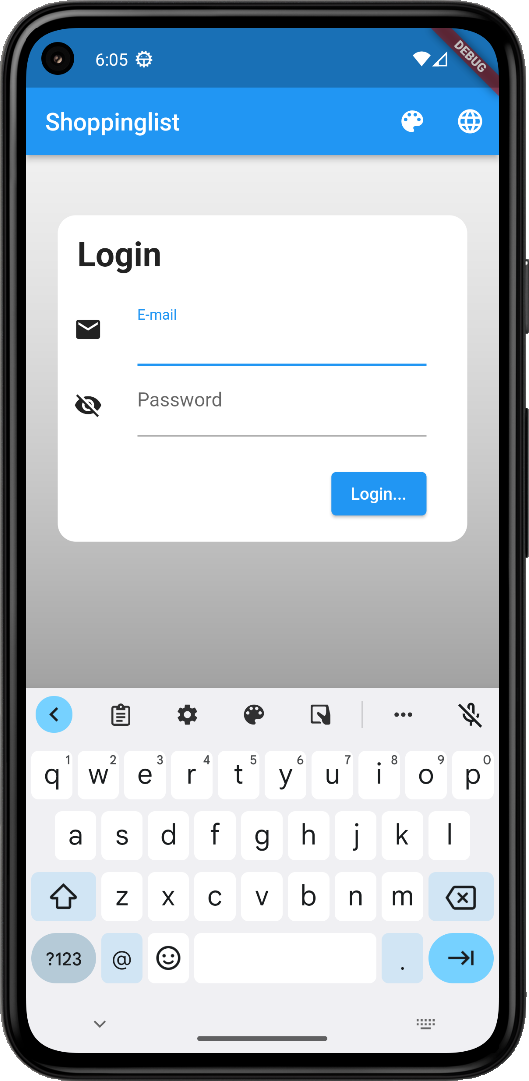
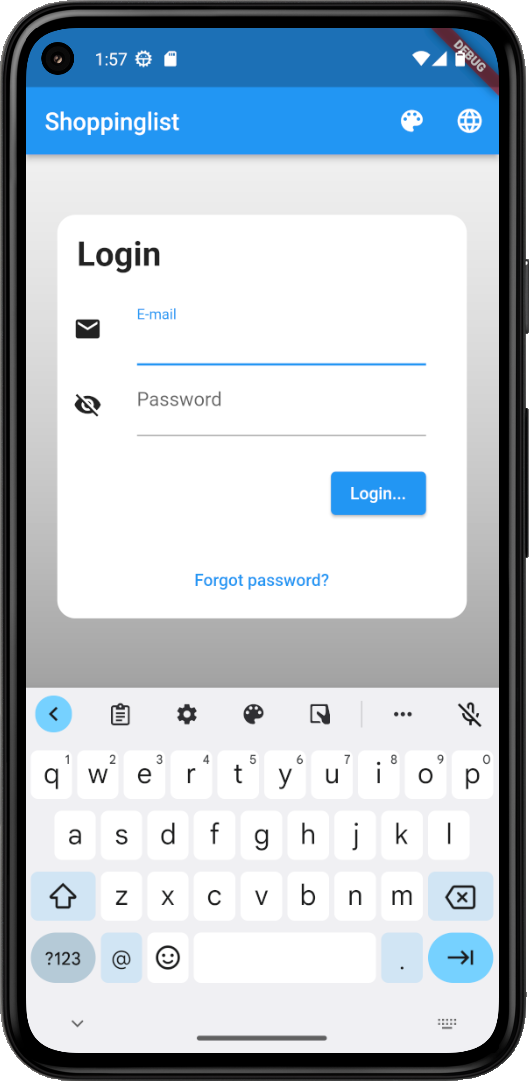
Password reset feature implemented

diff --git a/lib/component/statics.dart b/lib/component/statics.dart
@@ -14,7 +14,9 @@ class Statics {
   static Future<void> showErrorSnackbar(BuildContext ctx, dynamic e) async {
     final String msg;
     if (e is ClientException) {
-      msg = 'Error\nServer ${e.url?.host}\n${e.originalError}';
+      String? errMsg = e.originalError?.toString();
+      errMsg ??= e.response.entries.firstWhere((element) => element.key == 'message').value;
+      msg = 'Error\nServer ${e.url?.host}\n$errMsg';
     } else {
       msg = e.toString();
     }
@@ -22,8 +24,29 @@ class Statics {
     ScaffoldMessenger.of(ctx).showSnackBar(
       SnackBar(
         backgroundColor: Theme.of(ctx).colorScheme.error,
-        content: Text(msg, style: TextStyle(color: Theme.of(ctx).colorScheme.onErrorContainer)),
+        content: Text(
+          msg,
+          textAlign: TextAlign.center,
+          style: TextStyle(color: Theme.of(ctx).colorScheme.onErrorContainer),
+        ),
         duration: const Duration(milliseconds: 5000),
+        padding: const EdgeInsets.all(8.0),
+        behavior: SnackBarBehavior.floating,
+        shape: RoundedRectangleBorder(
+          borderRadius: BorderRadius.circular(15.0),
+        ),
+      ),
+    );
+  }
+
+  static Future<void> showInfoSnackbar(BuildContext ctx, dynamic e) async {
+    final String msg = e.toString();
+
+    ScaffoldMessenger.of(ctx).showSnackBar(
+      SnackBar(
+        backgroundColor: Theme.of(ctx).colorScheme.primary,
+        content: Text(msg, textAlign: TextAlign.center, style: TextStyle(color: Theme.of(ctx).cardTheme.color)),
+        duration: const Duration(milliseconds: 3000),
         padding: const EdgeInsets.all(8.0),
         behavior: SnackBarBehavior.floating,
         shape: RoundedRectangleBorder(
@@ -124,6 +147,51 @@ class Statics {
           ),
         ],
       ),
+    );
+  }
+
+  static Future<String?> showInputDialog(BuildContext context, String title, String message, String initValue) async {
+    var input = initValue;
+
+    return showDialog<String?>(
+      context: context,
+      builder: (ctx) {
+        var textFormField = TextFormField(
+          initialValue: initValue,
+          decoration: InputDecoration(
+            labelText: AppLocalizations.of(context)!.l_p_email,
+          ),
+          keyboardType: TextInputType.emailAddress,
+          onChanged: (value) => input = value,
+        );
+        return AlertDialog(
+          title: Text(title),
+          content: SingleChildScrollView(
+            child: Column(
+              children: [
+                Text(message),
+                textFormField,
+              ],
+            ),
+          ),
+          actions: <Widget>[
+            ElevatedButton(
+              autofocus: true,
+              onPressed: () {
+                Navigator.of(ctx).pop(null);
+              },
+              child: Text(AppLocalizations.of(context)!.com_cancel),
+            ),
+            ElevatedButton(
+              autofocus: false,
+              onPressed: () {
+                Navigator.of(ctx).pop(input);
+              },
+              child: Text(AppLocalizations.of(context)!.l_p_reset_password),
+            ),
+          ],
+        );
+      },
     );
   }
 

diff --git a/lib/view/login_page.dart b/lib/view/login_page.dart
@@ -250,7 +250,33 @@ class _LoginCardState extends State<_LoginCard> {
                                 ),
                               ),
                             ],
-                          )
+                          ),
+                        Row(
+                          mainAxisAlignment: MainAxisAlignment.center,
+                          children: [
+                            Padding(
+                              padding: const EdgeInsets.all(8.0),
+                              child: TextButton(
+                                  onPressed: () {
+                                    Statics.showInputDialog(
+                                      context,
+                                      AppLocalizations.of(context)!.l_p_forgot_password,
+                                      AppLocalizations.of(context)!.l_p_forgot_password_info,
+                                      _email,
+                                    ).then((value) {
+                                      if (value != null && value.isNotEmpty) {
+                                        Provider.of<PocketBaseProvider>(context, listen: false)
+                                            .sendPasswordResetEmail(value)
+                                            .then((value) => Statics.showInfoSnackbar(
+                                                context, AppLocalizations.of(context)!.l_p_email_sent))
+                                            .onError((error, stackTrace) => Statics.showErrorSnackbar(context, error));
+                                      }
+                                    });
+                                  },
+                                  child: Text(AppLocalizations.of(context)!.l_p_forgot_password)),
+                            ),
+                          ],
+                        )
                       ],
                     ),
                   ),

diff --git a/lib/provider/pocket_base_prov.dart b/lib/provider/pocket_base_prov.dart
@@ -70,7 +70,6 @@ class PocketBaseProvider extends ChangeNotifier {
     _healthCheckTimer?.cancel();
     _healthCheckTimer = null;
     _pb.authStore.clear();
-    _healthy = false;
     final prefs = await SharedPreferences.getInstance();
     prefs.remove(PrefKeys.accessTokenPrefsKey);
     prefs.remove(PrefKeys.accessModelPrefsKey);
@@ -226,5 +225,9 @@ class PocketBaseProvider extends ChangeNotifier {
 
   Future<void> deleteArticle(String id) async {
     return _pb.collection(collectionName).delete(id);
+  }
+
+  Future<void> sendPasswordResetEmail(String email) {
+    return _pb.collection('users').requestPasswordReset(email);
   }
 }
